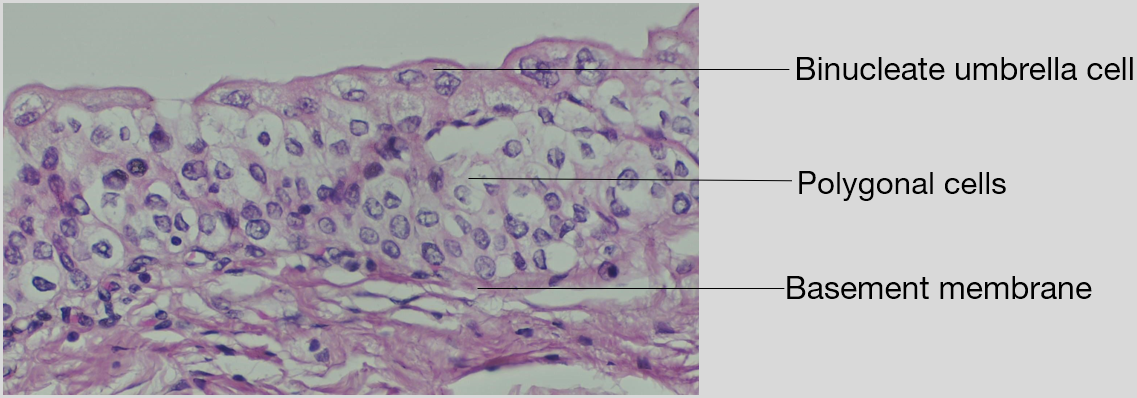
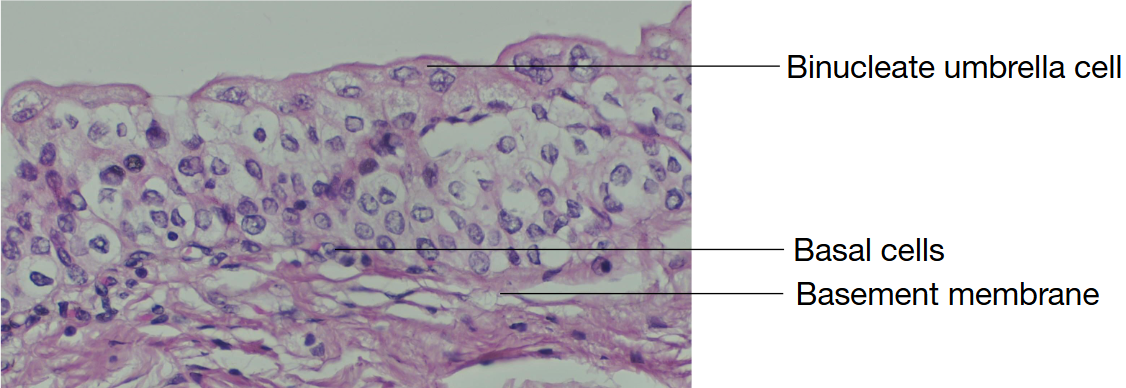
Epithelium Done

diff --git a/Client/src/components/StratifiedSquamousNonKeratinisedEpithelium.jsx b/Client/src/components/StratifiedSquamousNonKeratinisedEpithelium.jsx
@@ -18,8 +18,8 @@ function StratifiedSquamousNonKeratinisedEpithelium() {
     "/SimpleColumnarEpithelium",
     "/PseudostratifiedEpithelium",
     "/TransitionalEpithelium",
-    "/StratifiedSquamousKeratinisedEpithelium",
     "/StratifiedSquamousNonKeratinisedEpithelium",
+    "/StratifiedSquamousKeratinisedEpithelium",
   ];
 
 
@@ -94,7 +94,7 @@ function StratifiedSquamousNonKeratinisedEpithelium() {
         <div className="Container1" id="container1"  onTouchStart={handleTouchStart} onTouchMove={handleTouchMove} onTouchEnd={handleTouchEnd}>
           <div style={{ position: 'relative' }}>
             <img src="assets\Images\Epithelium\Stratified Squamous Non-Keratinised Low Magnification.png" alt="Stratified Squamous Keratinised Epithelium" />
-            <button className="AllButtons" data-tooltip="Stratified Squamous Non-Keratinised Epithelium - High Magnification" id="NonKeratinisedbtn1" data-popup="popup1" onClick={() => openPopup1('assets/Images/Epithelium/Stratified Squamous Non-Keratinised High Magnification.PNG', '#', '#')}>1</button>
+            <button className="AllButtons" data-tooltip="Stratified Squamous Non-Keratinised Epithelium" id="NonKeratinisedbtn1" data-popup="popup1" onClick={() => openPopup1('assets/Images/Epithelium/Stratified Squamous Non-Keratinised High Magnification.PNG', '#', '#')}>1</button>
           </div>
         </div>
         
@@ -130,10 +130,9 @@ function StratifiedSquamousNonKeratinisedEpithelium() {
             <ul className='epithelium-list' style={{ listStyleType: 'disc', paddingInlineStart: '20px', marginLeft: '20px' }}>
             <li>It is made up of many cell layers.</li>
             <li>There is a basal columnar cell layer, above which,  are cuboidal or polyhedral cells. As we proceed towards the surface, the cells get more and more flat. The superficial layer is made up of flat squamous cells.</li>
-            <li><strong>Stratified Squamous Keratinised Epithelium - </strong>It has a layer of keratin(dead cells) above the cell   layers. The superficial cells die, loose their nuclei and form keratin.</li>
-            <li>Present at places where there is friction, constant wear and tear going on.</li>
-            <li>Example - Skin</li>
-
+            <li>Stratified Squamous Non-Keratinised Epithelium - where only above mentioned cell layers are present. Keratin layer is absent. It is also known as moist epithelium.</li>
+            <li>Present at places where there is friction, constant wear and tear is going on.</li>
+            <li>Examples - Oral Mucosa, Lip, Oesophagus, Cornea</li>
             </ul>
           </p>
         </div>

diff --git a/Client/src/components/StratifiedSquamousKeratinisedEpithelium.jsx b/Client/src/components/StratifiedSquamousKeratinisedEpithelium.jsx
@@ -17,8 +17,8 @@ function StratifiedSquamousKeratinisedEpithelium() {
     "/SimpleColumnarEpithelium",
     "/PseudostratifiedEpithelium",
     "/TransitionalEpithelium",
-    "/StratifiedSquamousKeratinisedEpithelium",
     "/StratifiedSquamousNonKeratinisedEpithelium",
+    "/StratifiedSquamousKeratinisedEpithelium",
   ];
 
 
@@ -93,7 +93,7 @@ function StratifiedSquamousKeratinisedEpithelium() {
         <div className="Container1" id="container1"  onTouchStart={handleTouchStart} onTouchMove={handleTouchMove} onTouchEnd={handleTouchEnd}>
           <div style={{ position: 'relative' }}>
             <img src="assets\Images\Epithelium\Stratified Squamous Keratinised Epithelium Low Magnification.jpg" alt="Stratified Squamous Keratinised Epithelium" />
-            <button className="AllButtons" data-tooltip="Stratified Squamous Keratinised Epithelium - High Magnification" id="Keratinisedbtn1" data-popup="popup1" onClick={() => openPopup1('assets/Images/Epithelium/Stratified Squamous Keratinised Epithelium High Magnification.png', '#', '#')}>1</button>
+            <button className="AllButtons" data-tooltip="Stratified Squamous Keratinised Epithelium" id="Keratinisedbtn1" data-popup="popup1" onClick={() => openPopup1('assets/Images/Epithelium/Stratified Squamous Keratinised Epithelium High Magnification.png', '#', '#')}>1</button>
           </div>
         </div>
         
@@ -129,9 +129,9 @@ function StratifiedSquamousKeratinisedEpithelium() {
             <ul className='epithelium-list' style={{ listStyleType: 'disc', paddingInlineStart: '20px', marginLeft : '20px' }}>
             <li>It is made up of many cell layers.</li>
             <li>There is a basal columnar cell layer, above which,  are cuboidal or polyhedral cells. As we proceed towards the surface, the cells get more and more flat. The superficial layer is made up of flat squamous cells. </li>
-            <li>Stratified Squamous Non-Keratinised Epithelium - where only above mentioned cell layers are present. Keratin layer is absent. It is also known as moist epithelium.</li>
-            <li>Present at places where there is friction, constant wear and tear is going on.</li>
-            <li>Examples - Oral Mucosa, Lip, Oesophagus, Cornea</li>
+            <li><strong>Stratified Squamous Keratinised Epithelium - </strong>It has a layer of keratin(dead cells) above the cell   layers. The superficial cells die, loose their nuclei and form keratin.</li>
+            <li>Present at places where there is friction, constant wear and tear going on.</li>
+            <li>Example - Skin</li>
             </ul>
           </p>
         </div>

diff --git a/Client/src/components/Epithelium.jsx b/Client/src/components/Epithelium.jsx
@@ -59,8 +59,9 @@ const Epithelium = () => {
     { name: 'Simple Columnar Epithelium', img: '/assets/Images/Epithelium/Unlabelled/Columnar_low.jpeg', link: '/SimpleColumnarEpithelium', keywords: ['columnar', 'simple', 'epithelium'] },
     { name: 'Pseudostratified Epithelium', img: '/assets/Images/Epithelium/Unlabelled/Pseudo _low.jpg', link: '/PseudostratifiedEpithelium', keywords: ['pseudostratified', 'epithelium'] },
     { name: 'Transitional Epithelium', img: '/assets/Images/Epithelium/Unlabelled/Trans_low.jpeg', link: '/TransitionalEpithelium', keywords: ['transitional', 'epithelium'] },
-    { name: 'Stratified Squamous Keratinised Epithelium', img: '/assets/Images/Epithelium/Unlabelled/Strat_ker_low.jpeg', link: '/StratifiedSquamousKeratinisedEpithelium', keywords: ['stratified', 'squamous', 'keratinised', 'epithelium'] },
-    { name: 'Stratified Squamous Non-Keratinised Epithelium', img: '/assets/Images/Epithelium/Unlabelled/Strat_non_ker_low.jpg', link: '/StratifiedSquamousNonKeratinisedEpithelium', keywords: ['stratified', 'squamous', 'non-keratinised', 'epithelium'] }
+    { name: 'Stratified Squamous Non-Keratinised Epithelium', img: '/assets/Images/Epithelium/Unlabelled/Strat_non_ker_low.jpg', link: '/StratifiedSquamousNonKeratinisedEpithelium', keywords: ['stratified', 'squamous', 'non-keratinised', 'epithelium'] },
+    { name: 'Stratified Squamous Keratinised Epithelium', img: '/assets/Images/Epithelium/Unlabelled/Strat_ker_low.jpeg', link: '/StratifiedSquamousKeratinisedEpithelium', keywords: ['stratified', 'squamous', 'keratinised', 'epithelium'] }
+    
   ];
 
   const filteredTiles = tiles.filter(tile =>

diff --git a/Client/src/components/SimpleCuboidalEpithelium.jsx b/Client/src/components/SimpleCuboidalEpithelium.jsx
@@ -18,10 +18,9 @@ function SimpleCuboidalEpithelium() {
     "/SimpleColumnarEpithelium",
     "/PseudostratifiedEpithelium",
     "/TransitionalEpithelium",
-    "/StratifiedSquamousKeratinisedEpithelium",
     "/StratifiedSquamousNonKeratinisedEpithelium",
+    "/StratifiedSquamousKeratinisedEpithelium",
   ];
-
 
   const currentIndex = epitheliumTypes.indexOf(window.location.pathname);
 
@@ -93,7 +92,7 @@ function SimpleCuboidalEpithelium() {
         <div className="Container1" id="container1"  onTouchStart={handleTouchStart} onTouchMove={handleTouchMove} onTouchEnd={handleTouchEnd}>
           <div style={{ position: 'relative' }}>
             <img src="assets/Images/Epithelium/Simple Cuboidal Epithelium.jpg" alt="Simple Cuboidal Epithelium" />
-            <button className="AllButtons" data-tooltip="Simple Cuboidal - High Magnification" id="Cuboidalbtn1" data-popup="popup1" onClick={() => openPopup1('assets/Images/Epithelium/Simple Cuboidal Epithelium High Magnification.PNG', '#', '#')}>1</button>
+            <button className="AllButtons" data-tooltip="Simple Cuboidal" id="Cuboidalbtn1" data-popup="popup1" onClick={() => openPopup1('assets/Images/Epithelium/Simple Cuboidal Epithelium High Magnification.PNG', '#', '#')}>1</button>
           </div>
         </div>
         <div className="navigation-buttons">

diff --git a/Client/src/components/PseudostratifiedEpithelium.jsx b/Client/src/components/PseudostratifiedEpithelium.jsx
@@ -18,8 +18,8 @@ function PseudostratifiedEpithelium() {
     "/SimpleColumnarEpithelium",
     "/PseudostratifiedEpithelium",
     "/TransitionalEpithelium",
-    "/StratifiedSquamousKeratinisedEpithelium",
     "/StratifiedSquamousNonKeratinisedEpithelium",
+    "/StratifiedSquamousKeratinisedEpithelium",
   ];
 
 
@@ -93,7 +93,7 @@ function PseudostratifiedEpithelium() {
         <div className="Container1" id="container1"  onTouchStart={handleTouchStart} onTouchMove={handleTouchMove} onTouchEnd={handleTouchEnd}>
           <div style={{ position: 'relative' }}>
             <img src="assets\Images\Epithelium\Pseudostratified Epithelium Low Magnification.png" alt="Pseudostratified Epithelium Low Magnification" />
-            <button className="AllButtons" data-tooltip="Pseudostratified Epithelium - High Magnification" id="Pseudobtn1" data-popup="popup1" onClick={() => openPopup1('assets/Images/Epithelium/Pseudostratified Epithelium High Magnification.PNG', '#', '#')}>1</button>
+            <button className="AllButtons" data-tooltip="Pseudostratified Epithelium" id="Pseudobtn1" data-popup="popup1" onClick={() => openPopup1('assets/Images/Epithelium/Pseudostratified Epithelium High Magnification.PNG', '#', '#')}>1</button>
           </div>
         </div>
         

diff --git a/Client/src/components/TransitionalEpithelium.jsx b/Client/src/components/TransitionalEpithelium.jsx
@@ -17,8 +17,8 @@ function TransitionalEpithelium() {
     "/SimpleColumnarEpithelium",
     "/PseudostratifiedEpithelium",
     "/TransitionalEpithelium",
-    "/StratifiedSquamousKeratinisedEpithelium",
     "/StratifiedSquamousNonKeratinisedEpithelium",
+    "/StratifiedSquamousKeratinisedEpithelium",
   ];
 
 
@@ -92,7 +92,7 @@ function TransitionalEpithelium() {
         <div className="Container1" id="container1"  onTouchStart={handleTouchStart} onTouchMove={handleTouchMove} onTouchEnd={handleTouchEnd}>
           <div style={{ position: 'relative' }}>
             <img src="assets\Images\Epithelium\Transitional Epithelium Low Magnification.jpg" alt="Transitional Epithelium Low Magnification" />
-            <button className="AllButtons" data-tooltip="Transitional Epithelium - High Magnification" id="Transitionalbtn1" data-popup="popup1" onClick={() => openPopup1('assets/Images/Epithelium/Transitional Epithelium High Magnification.PNG', '#', '#')}>1</button>
+            <button className="AllButtons" data-tooltip="Transitional Epithelium" id="Transitionalbtn1" data-popup="popup1" onClick={() => openPopup1('assets/Images/Epithelium/Transitional Epithelium High Magnification.PNG', '#', '#')}>1</button>
           </div>
         </div>
         

diff --git a/Client/src/components/SimpleColumnarEpithelium.jsx b/Client/src/components/SimpleColumnarEpithelium.jsx
@@ -18,8 +18,8 @@ function SimpleColumnarEpithelium() {
     "/SimpleColumnarEpithelium",
     "/PseudostratifiedEpithelium",
     "/TransitionalEpithelium",
-    "/StratifiedSquamousKeratinisedEpithelium",
     "/StratifiedSquamousNonKeratinisedEpithelium",
+    "/StratifiedSquamousKeratinisedEpithelium",
   ];
 
 
@@ -92,7 +92,7 @@ function SimpleColumnarEpithelium() {
         <div className="Container1" id="container1"  onTouchStart={handleTouchStart} onTouchMove={handleTouchMove} onTouchEnd={handleTouchEnd}>
           <div style={{ position: 'relative' }}>
             <img src="assets/Images/Epithelium/Simple Columnar Low Magnification.jpg" alt="Simple Columnar Epithelium" />
-            <button className="AllButtons" data-tooltip="Simple Columnar - High Magnification" id="Columnarbtn1" data-popup="popup1" onClick={() => openPopup1('assets/Images/Epithelium/Simple Columnar High Magnification.PNG', '#', '#')}>1</button>
+            <button className="AllButtons" data-tooltip="Simple Columnar" id="Columnarbtn1" data-popup="popup1" onClick={() => openPopup1('assets/Images/Epithelium/Simple Columnar High Magnification.PNG', '#', '#')}>1</button>
           </div>
         </div>
         

diff --git a/Client/src/components/SquamousEpithelium.jsx b/Client/src/components/SquamousEpithelium.jsx
@@ -19,8 +19,8 @@ function SquamousEpithelium() {
     "/SimpleColumnarEpithelium",
     "/PseudostratifiedEpithelium",
     "/TransitionalEpithelium",
-    "/StratifiedSquamousKeratinisedEpithelium",
     "/StratifiedSquamousNonKeratinisedEpithelium",
+    "/StratifiedSquamousKeratinisedEpithelium",
   ];
 
 
